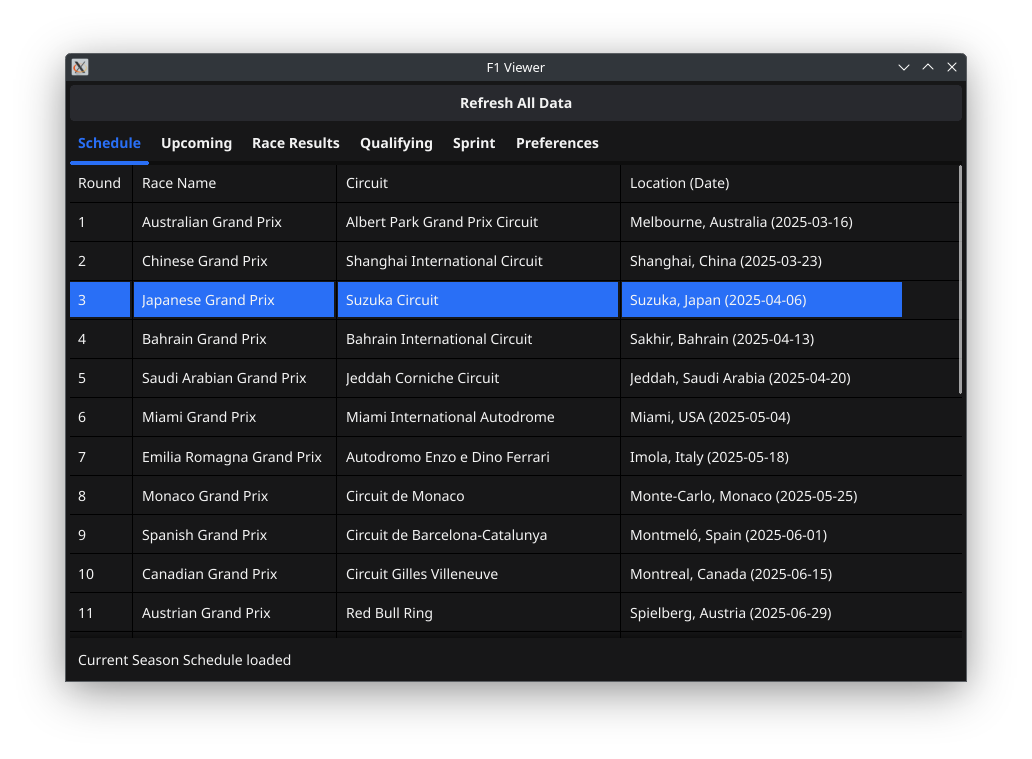
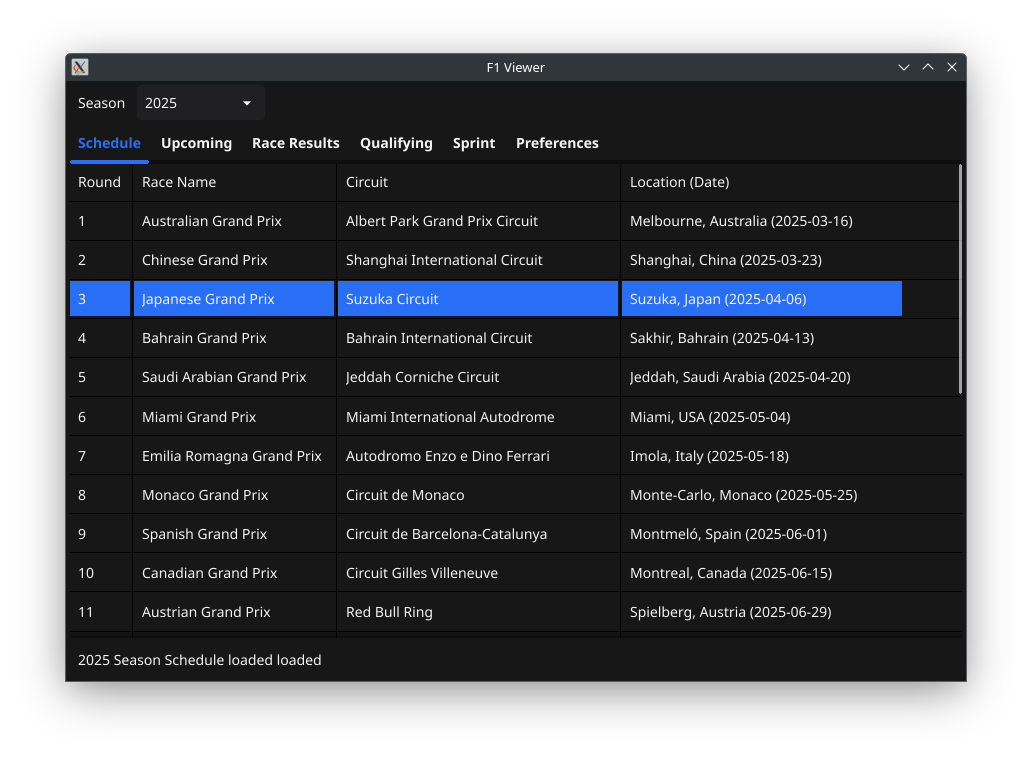
readme updates

diff --git a/readme.md b/readme.md
@@ -1,14 +1,15 @@
 # F1Tray
 
-F1Tray is a desktop application that provides Formula 1 enthusiasts with up-to-date race schedules and results.  
+F1Tray is a desktop application that provides Formula 1 enthusiasts with up-to-date race schedules and results — and now historical data too.  
 
 Built using the [Fyne](https://fyne.io/) toolkit and powered by the [Jolpica](https://jolpica.com/) API, it offers a sleek and intuitive interface for accessing F1 data directly from your system tray.
 
 ## Features
 
-- **Race Schedule**: Fetches the current season's race schedule, highlighting the next upcoming race.
-- **Race Results**: View the latest Grand Prix results in a clean, readable table format.
-- **Interactive Circuits**: Double-click any circuit name to open its location on an interactive map.
+- **Race Schedule**: Fetches the current season's race calendar, highlighting the next upcoming race.
+- **Historical Race Results**: Instantly view results, qualifying, and sprint data from **any past F1 race** — just double-click a race name in the Schedule tab.
+- **Race Results**: View the latest Grand Prix outcomes in a clean, readable table format.
+- **Interactive Circuits**: Double-click any circuit name to open its location on an interactive OpenStreetMap.
 - **Watch on F1TV**: If you’re a subscriber, one click takes you directly to F1TV to stream sessions.
 - **Cross-Platform**: Runs on Windows, macOS, and Linux.
 - **System Tray Integration**: Quickly access key features from the tray icon.
@@ -17,7 +18,7 @@ Built using the [Fyne](https://fyne.io/) toolkit and powered by the [Jolpica](ht
 ## Screenshots
 
 ### 🗓 Race Schedule Tab  
-Highlights the current F1 calendar and lets you double-click circuits to open maps.
+Highlights the current F1 calendar and lets you double-click race names for historical results or circuits for maps.
 
 ![Schedule Tab](cmd/f1tray/assets/schedule.png)
 
@@ -31,13 +32,13 @@ Shows upcoming practice, qualifying, sprint, and race times — with a shortcut 
 ---
 
 ### 🏁 Results Tab  
-Displays official race results in a simple, scrollable table.
+Displays official race results in a simple, scrollable table. Now supports historical rounds.
 
 ![Results Tab](cmd/f1tray/assets/results.png)
 
 ## TODO
- * ???
- 
+- ???
+
 ## Legal Notice
 
 This project is not affiliated with, endorsed by, or associated with Formula One Group or any of its subsidiaries.  
